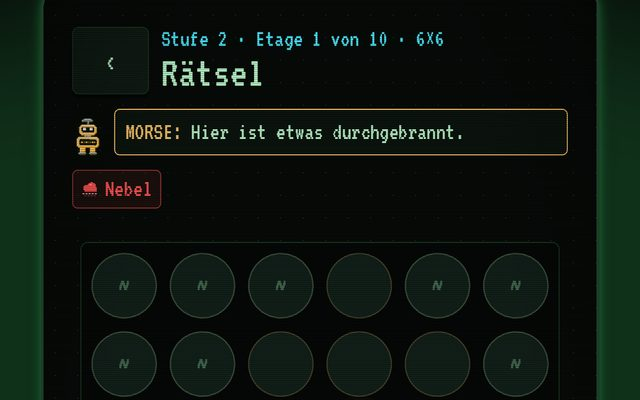
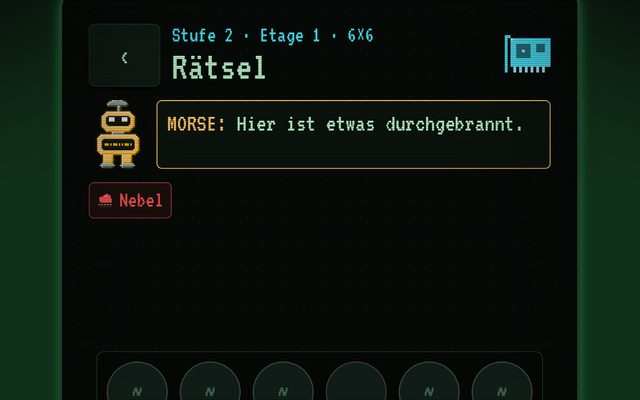
Archiv: neue Freischaltung der Roboter in Bits & Bolts
Die ersten sechs Roboter kommen weiter mit Siegen, alle anderen mit
dem, was man gespielt hat: Rätsel mit bestimmten Regeln oder
Ereignissen, 8×8, Kurzschlüsse oder Siege mit verschiedenen Robotern.
Dazu neue Bilder aus den Store-Screenshots mit den Icons der Gegenden.

diff --git a/archiv/roboter/index.html b/archiv/roboter/index.html
@@ -35,7 +35,7 @@
     <article class="wiki-page">
       <p class="eyebrow">Archiv · Roboter-Register</p>
       <h1 class="page-title">Roboter-Register</h1>
-      <p class="wiki-lead">Alle 22 Roboter in der Reihenfolge, in der man sie in Bits &amp; Bolts freischaltet. Jeder bringt ins Rätsel eine eigene Fähigkeit mit und hat in Bolt Buddies eigene Kampfwerte.</p>
+      <p class="wiki-lead">Alle 22 Roboter. Die ersten sechs schaltet man in Bits &amp; Bolts mit Siegen frei, alle anderen mit dem, was man gespielt hat: Regeln, Ereignisse, 8×8. Jeder bringt ins Rätsel eine eigene Fähigkeit mit und hat in Bolt Buddies eigene Kampfwerte.</p>
       <fieldset class="flt"><legend>Nach Spiel filtern</legend><input type="radio" name="flt" id="flt-all" checked><label for="flt-all">Alle</label><input type="radio" name="flt" id="flt-bnb"><label for="flt-bnb">Bits &amp; Bolts</label><input type="radio" name="flt" id="flt-bb"><label for="flt-bb">Bolt Buddies</label><input type="radio" name="flt" id="flt-plan"><label for="flt-plan">Geplante Spiele</label></fieldset>
 
       <nav class="bot-index" aria-label="Roboter"><a href="#byte" style="--bot:#3DFF7A"><img src="bots/byte.png" width="40" height="48" alt="" loading="lazy"><span>BYTE</span></a><a href="#okta" style="--bot:#FF9E2C"><img src="bots/okta.png" width="40" height="48" alt="" loading="lazy"><span>OKTA</span></a><a href="#gate" style="--bot:#FFD34D"><img src="bots/gate.png" width="40" height="48" alt="" loading="lazy"><span>GATE</span></a><a href="#null" style="--bot:#B4BECC"><img src="bots/null.png" width="40" height="48" alt="" loading="lazy"><span>NULL</span></a><a href="#hexa" style="--bot:#4DE8FF"><img src="bots/hexa.png" width="40" height="48" alt="" loading="lazy"><span>HEXA</span></a><a href="#pari" style="--bot:#2CE6B0"><img src="bots/pari.png" width="40" height="48" alt="" loading="lazy"><span>PARI</span></a><a href="#aski" style="--bot:#E8F0FF"><img src="bots/aski.png" width="40" height="48" alt="" loading="lazy"><span>ASKI</span></a><a href="#qubit" style="--bot:#7DF9FF"><img src="bots/qubit.png" width="40" height="48" alt="" loading="lazy"><span>QUBIT</span></a><a href="#chroma" style="--bot:#7FB2FF"><img src="bots/chroma.png" width="40" height="48" alt="" loading="lazy"><span>CHROMA</span></a><a href="#nibble" style="--bot:#C6FF3D"><img src="bots/nibble.png" width="40" height="48" alt="" loading="lazy"><span>NIBBLE</span></a><a href="#glitch" style="--bot:#B07CFF"><img src="bots/glitch.png" width="40" height="48" alt="" loading="lazy"><span>GLITCH</span></a><a href="#patch" style="--bot:#5C8DFF"><img src="bots/patch.png" width="40" height="48" alt="" loading="lazy"><span>PATCH</span></a><a href="#loop" style="--bot:#7CFFB0"><img src="bots/loop.png" width="40" height="48" alt="" loading="lazy"><span>LOOP</span></a><a href="#xor" style="--bot:#FF7A45"><img src="bots/xor.png" width="40" height="48" alt="" loading="lazy"><span>XOR</span></a><a href="#mira" style="--bot:#C9A8FF"><img src="bots/mira.png" width="40" height="48" alt="" loading="lazy"><span>MIRA</span></a><a href="#pixa" style="--bot:#FF5CF0"><img src="bots/pixa.png" width="40" height="48" alt="" loading="lazy"><span>PIXA</span></a><a href="#shift" style="--bot:#6FC3FF"><img src="bots/shift.png" width="40" height="48" alt="" loading="lazy"><span>SHIFT</span></a><a href="#root" style="--bot:#4CC26A"><img src="bots/root.png" width="40" height="48" alt="" loading="lazy"><span>ROOT</span></a><a href="#virus" style="--bot:#8CFF4D"><img src="bots/virus.png" width="40" height="48" alt="" loading="lazy"><span>VIRUS</span></a><a href="#error" style="--bot:#FF4D4D"><img src="bots/error.png" width="40" height="48" alt="" loading="lazy"><span>ERROR</span></a><a href="#daemon" style="--bot:#C04DFF"><img src="bots/daemon.png" width="40" height="48" alt="" loading="lazy"><span>DAEMON</span></a><a href="#morse" style="--bot:#FFC66B"><img src="bots/morse.png" width="40" height="48" alt="" loading="lazy"><span>MORSE</span></a></nav>
@@ -71,7 +71,7 @@
   <section class="bot-game bot-game-puzzle" data-game="bnb">
     <h4><img src="../../icons/bits-and-bolts.png" alt="" width="20" height="20">Bits &amp; Bolts<span class="bot-role">Rätselhinweis</span></h4>
     <p>Liest Oktalzahlen an den Zeilen, startet aber mit 1 Ladung weniger.</p>
-    <p class="bot-unlock">Freigeschaltet nach 1 Sieg, Stufe 0 geschafft</p>
+    <p class="bot-unlock">Freigeschaltet nach 1 Sieg</p>
   </section>
   <section class="bot-game bot-game-fight" data-game="bb">
     <h4><img src="../../icons/bolt-buddies.png" alt="" width="20" height="20">Bolt Buddies<span class="bot-role">Kampf</span></h4>
@@ -89,7 +89,7 @@
   <section class="bot-game bot-game-puzzle" data-game="bnb">
     <h4><img src="../../icons/bits-and-bolts.png" alt="" width="20" height="20">Bits &amp; Bolts<span class="bot-role">Zusatzregel</span></h4>
     <p>Bringt in jedes Rätsel Zeichen zwischen Zellen: = heißt gleich, × heißt verschieden.</p>
-    <p class="bot-unlock">Freigeschaltet nach 2 Siegen, Stufe 0 geschafft</p>
+    <p class="bot-unlock">Freigeschaltet nach 2 Siegen</p>
   </section>
   <section class="bot-game bot-game-fight" data-game="bb">
     <h4><img src="../../icons/bolt-buddies.png" alt="" width="20" height="20">Bolt Buddies<span class="bot-role">Kampf</span></h4>
@@ -107,7 +107,7 @@
   <section class="bot-game bot-game-puzzle" data-game="bnb">
     <h4><img src="../../icons/bits-and-bolts.png" alt="" width="20" height="20">Bits &amp; Bolts<span class="bot-role">Rätselhinweis</span></h4>
     <p>Zeigt, wo in einer Linie die erste 0 steht, hat aber nur 2 Tipps.</p>
-    <p class="bot-unlock">Freigeschaltet nach 3 Siegen, Stufe 1 geschafft</p>
+    <p class="bot-unlock">Freigeschaltet nach 3 Siegen</p>
   </section>
   <section class="bot-game bot-game-fight" data-game="bb">
     <h4><img src="../../icons/bolt-buddies.png" alt="" width="20" height="20">Bolt Buddies<span class="bot-role">Kampf</span></h4>
@@ -125,7 +125,7 @@
   <section class="bot-game bot-game-puzzle" data-game="bnb">
     <h4><img src="../../icons/bits-and-bolts.png" alt="" width="20" height="20">Bits &amp; Bolts<span class="bot-role">Rätselhinweis</span></h4>
     <p>Liest Hexzahlen an den Zeilen. 4 Tipps, aber 1 Ladung weniger.</p>
-    <p class="bot-unlock">Freigeschaltet nach 4 Siegen, Stufe 1 geschafft</p>
+    <p class="bot-unlock">Freigeschaltet nach 4 Siegen</p>
   </section>
   <section class="bot-game bot-game-fight" data-game="bb">
     <h4><img src="../../icons/bolt-buddies.png" alt="" width="20" height="20">Bolt Buddies<span class="bot-role">Kampf</span></h4>
@@ -143,7 +143,7 @@
   <section class="bot-game bot-game-puzzle" data-game="bnb">
     <h4><img src="../../icons/bits-and-bolts.png" alt="" width="20" height="20">Bits &amp; Bolts<span class="bot-role">Zusatzregel</span></h4>
     <p>Bringt in jedes Rätsel Blöcke mit gleich vielen Nullen und Einsen.</p>
-    <p class="bot-unlock">Freigeschaltet nach 5 Siegen, Stufe 2 geschafft</p>
+    <p class="bot-unlock">Freigeschaltet nach 5 Siegen</p>
   </section>
   <section class="bot-game bot-game-fight" data-game="bb">
     <h4><img src="../../icons/bolt-buddies.png" alt="" width="20" height="20">Bolt Buddies<span class="bot-role">Kampf</span></h4>
@@ -161,7 +161,7 @@
   <section class="bot-game bot-game-puzzle" data-game="bnb">
     <h4><img src="../../icons/bits-and-bolts.png" alt="" width="20" height="20">Bits &amp; Bolts<span class="bot-role">Rätselhinweis</span></h4>
     <p>Liest ASCII-Zeichen an den Zeilen. 5 Ladungen, aber nur 2 Tipps.</p>
-    <p class="bot-unlock">Freigeschaltet nach 6 Siegen, Stufe 2 geschafft</p>
+    <p class="bot-unlock">Freigeschaltet nach 6 Siegen</p>
   </section>
   <section class="bot-game bot-game-fight" data-game="bb">
     <h4><img src="../../icons/bolt-buddies.png" alt="" width="20" height="20">Bolt Buddies<span class="bot-role">Kampf</span></h4>
@@ -179,7 +179,7 @@
   <section class="bot-game bot-game-puzzle" data-game="bnb">
     <h4><img src="../../icons/bits-and-bolts.png" alt="" width="20" height="20">Bits &amp; Bolts<span class="bot-role">Zusatzregel</span></h4>
     <p>Verschränkt Zellen: Von zwei Zellen mit gleichem Buchstaben ist genau eine 1.</p>
-    <p class="bot-unlock">Freigeschaltet nach 8 Siegen, Stufe 3 geschafft</p>
+    <p class="bot-unlock">Freigeschaltet nach 15 Rätseln mit Sensoren</p>
   </section>
   <section class="bot-game bot-game-fight" data-game="bb">
     <h4><img src="../../icons/bolt-buddies.png" alt="" width="20" height="20">Bolt Buddies<span class="bot-role">Kampf</span></h4>
@@ -197,7 +197,7 @@
   <section class="bot-game bot-game-puzzle" data-game="bnb">
     <h4><img src="../../icons/bits-and-bolts.png" alt="" width="20" height="20">Bits &amp; Bolts<span class="bot-role">Rätselhinweis</span></h4>
     <p>Liest Farbbalken an den Zeilen, hat aber nur 2 Tipps.</p>
-    <p class="bot-unlock">Freigeschaltet nach 10 Siegen, Stufe 3 geschafft</p>
+    <p class="bot-unlock">Freigeschaltet nach 15 Rätseln mit Hex</p>
   </section>
   <section class="bot-game bot-game-fight" data-game="bb">
     <h4><img src="../../icons/bolt-buddies.png" alt="" width="20" height="20">Bolt Buddies<span class="bot-role">Kampf</span></h4>
@@ -215,7 +215,7 @@
   <section class="bot-game bot-game-puzzle" data-game="bnb">
     <h4><img src="../../icons/bits-and-bolts.png" alt="" width="20" height="20">Bits &amp; Bolts<span class="bot-role">Zusatzregel</span></h4>
     <p>Zählt in Häppchen: Rahmen um vier Zellen sagen, wie viele Einsen darin stehen.</p>
-    <p class="bot-unlock">Freigeschaltet nach 12 Siegen, Stufe 4 geschafft</p>
+    <p class="bot-unlock">Freigeschaltet nach 15 Rätseln mit Blöcken</p>
   </section>
   <section class="bot-game bot-game-fight" data-game="bb">
     <h4><img src="../../icons/bolt-buddies.png" alt="" width="20" height="20">Bolt Buddies<span class="bot-role">Kampf</span></h4>
@@ -233,7 +233,7 @@
   <section class="bot-game bot-game-puzzle" data-game="bnb">
     <h4><img src="../../icons/bits-and-bolts.png" alt="" width="20" height="20">Bits &amp; Bolts<span class="bot-role">Rätselhinweis</span></h4>
     <p>Zeigt zwei Zahlen an einer Linie, nur eine stimmt. 4 Tipps, aber 1 Ladung weniger.</p>
-    <p class="bot-unlock">Freigeschaltet nach 14 Siegen, Stufe 4 geschafft</p>
+    <p class="bot-unlock">Freigeschaltet nach 10 Rätseln mit Wackelkontakt oder Störsignal</p>
   </section>
   <section class="bot-game bot-game-fight" data-game="bb">
     <h4><img src="../../icons/bolt-buddies.png" alt="" width="20" height="20">Bolt Buddies<span class="bot-role">Kampf</span></h4>
@@ -251,7 +251,7 @@
   <section class="bot-game bot-game-puzzle" data-game="bnb">
     <h4><img src="../../icons/bits-and-bolts.png" alt="" width="20" height="20">Bits &amp; Bolts<span class="bot-role">Fähigkeit</span></h4>
     <p>Flickt sich selbst: Der erste Kurzschluss in jedem Rätsel kostet nichts. Dafür 2 Ladungen weniger.</p>
-    <p class="bot-unlock">Freigeschaltet nach 16 Siegen, Stufe 4 geschafft</p>
+    <p class="bot-unlock">Freigeschaltet nach 50 überstandenen Kurzschlüssen</p>
   </section>
   <section class="bot-game bot-game-fight" data-game="bb">
     <h4><img src="../../icons/bolt-buddies.png" alt="" width="20" height="20">Bolt Buddies<span class="bot-role">Kampf</span></h4>
@@ -269,7 +269,7 @@
   <section class="bot-game bot-game-puzzle" data-game="bnb">
     <h4><img src="../../icons/bits-and-bolts.png" alt="" width="20" height="20">Bits &amp; Bolts<span class="bot-role">Zusatzregel</span></h4>
     <p>Seine Raster haben keinen Rand: Nie drei gleiche gilt auch über den Rand hinweg.</p>
-    <p class="bot-unlock">Freigeschaltet nach 18 Siegen, Stufe 5 geschafft</p>
+    <p class="bot-unlock">Freigeschaltet nach Siegen mit 6 verschiedenen Robotern</p>
   </section>
   <section class="bot-game bot-game-fight" data-game="bb">
     <h4><img src="../../icons/bolt-buddies.png" alt="" width="20" height="20">Bolt Buddies<span class="bot-role">Kampf</span></h4>
@@ -287,7 +287,7 @@
   <section class="bot-game bot-game-puzzle" data-game="bnb">
     <h4><img src="../../icons/bits-and-bolts.png" alt="" width="20" height="20">Bits &amp; Bolts<span class="bot-role">Rätselhinweis</span></h4>
     <p>Zählt, an wie vielen Stellen sich zwei Nachbarlinien unterscheiden. Dafür 4 Tipps.</p>
-    <p class="bot-unlock">Freigeschaltet nach 20 Siegen, Stufe 5 geschafft</p>
+    <p class="bot-unlock">Freigeschaltet nach 15 Rätseln mit Zeichen</p>
   </section>
   <section class="bot-game bot-game-fight" data-game="bb">
     <h4><img src="../../icons/bolt-buddies.png" alt="" width="20" height="20">Bolt Buddies<span class="bot-role">Kampf</span></h4>
@@ -305,7 +305,7 @@
   <section class="bot-game bot-game-puzzle" data-game="bnb">
     <h4><img src="../../icons/bits-and-bolts.png" alt="" width="20" height="20">Bits &amp; Bolts<span class="bot-role">Rätselhinweis</span></h4>
     <p>Verbindet Linien, die Spiegelbilder sind. 5 Ladungen, 3 Tipps.</p>
-    <p class="bot-unlock">Freigeschaltet nach 22 Siegen, Stufe 5 geschafft</p>
+    <p class="bot-unlock">Freigeschaltet nach 10 Rätseln mit Einzigartig</p>
   </section>
   <section class="bot-game bot-game-fight" data-game="bb">
     <h4><img src="../../icons/bolt-buddies.png" alt="" width="20" height="20">Bolt Buddies<span class="bot-role">Kampf</span></h4>
@@ -323,7 +323,7 @@
   <section class="bot-game bot-game-puzzle" data-game="bnb">
     <h4><img src="../../icons/bits-and-bolts.png" alt="" width="20" height="20">Bits &amp; Bolts<span class="bot-role">Rätselhinweis</span></h4>
     <p>Zeigt Pixelblöcke an Zeilen und Spalten. 5 Ladungen, 3 Tipps.</p>
-    <p class="bot-unlock">Freigeschaltet nach 24 Siegen, Stufe 5 geschafft</p>
+    <p class="bot-unlock">Freigeschaltet nach 10 Rätseln mit Farbe</p>
   </section>
   <section class="bot-game bot-game-fight" data-game="bb">
     <h4><img src="../../icons/bolt-buddies.png" alt="" width="20" height="20">Bolt Buddies<span class="bot-role">Kampf</span></h4>
@@ -341,7 +341,7 @@
   <section class="bot-game bot-game-puzzle" data-game="bnb">
     <h4><img src="../../icons/bits-and-bolts.png" alt="" width="20" height="20">Bits &amp; Bolts<span class="bot-role">Rätselhinweis</span></h4>
     <p>Verbindet Nachbarlinien, die um eine Stelle verschoben sind. 5 Ladungen, 3 Tipps.</p>
-    <p class="bot-unlock">Freigeschaltet nach 26 Siegen, Stufe 5 geschafft</p>
+    <p class="bot-unlock">Freigeschaltet nach 10 Rätseln mit Spiegeln</p>
   </section>
   <section class="bot-game bot-game-fight" data-game="bb">
     <h4><img src="../../icons/bolt-buddies.png" alt="" width="20" height="20">Bolt Buddies<span class="bot-role">Kampf</span></h4>
@@ -359,7 +359,7 @@
   <section class="bot-game bot-game-puzzle" data-game="bnb">
     <h4><img src="../../icons/bits-and-bolts.png" alt="" width="20" height="20">Bits &amp; Bolts<span class="bot-role">Zusatzregel</span></h4>
     <p>Sieht auch schräg: Nie drei gleiche gilt bei ihm auch diagonal. Dafür 1 Tipp mehr.</p>
-    <p class="bot-unlock">Freigeschaltet nach 28 Siegen, Stufe 5 geschafft</p>
+    <p class="bot-unlock">Freigeschaltet nach 10 Rätseln in 8×8</p>
   </section>
   <section class="bot-game bot-game-fight" data-game="bb">
     <h4><img src="../../icons/bolt-buddies.png" alt="" width="20" height="20">Bolt Buddies<span class="bot-role">Kampf</span></h4>
@@ -377,7 +377,7 @@
   <section class="bot-game bot-game-puzzle" data-game="bnb">
     <h4><img src="../../icons/bits-and-bolts.png" alt="" width="20" height="20">Bits &amp; Bolts<span class="bot-role">Ereignis</span></h4>
     <p>Steckt an: Bei einem Kurzschluss erlischt auch eine Ziffer daneben. Dafür 1 Ladung mehr.</p>
-    <p class="bot-unlock">Freigeschaltet nach 30 Siegen, Stufe 5 geschafft</p>
+    <p class="bot-unlock">Freigeschaltet nach 5 Rätseln mit Ansteckung</p>
   </section>
   <section class="bot-game bot-game-fight" data-game="bb">
     <h4><img src="../../icons/bolt-buddies.png" alt="" width="20" height="20">Bolt Buddies<span class="bot-role">Kampf</span></h4>
@@ -395,7 +395,7 @@
   <section class="bot-game bot-game-puzzle" data-game="bnb">
     <h4><img src="../../icons/bits-and-bolts.png" alt="" width="20" height="20">Bits &amp; Bolts<span class="bot-role">Ereignis</span></h4>
     <p>Baut Fehler ein: Eine Vorgabe ist falsch. Dafür 1 Tipp mehr.</p>
-    <p class="bot-unlock">Freigeschaltet nach 32 Siegen, Stufe 5 geschafft</p>
+    <p class="bot-unlock">Freigeschaltet nach 5 Rätseln mit falscher Vorgabe</p>
   </section>
   <section class="bot-game bot-game-fight" data-game="bb">
     <h4><img src="../../icons/bolt-buddies.png" alt="" width="20" height="20">Bolt Buddies<span class="bot-role">Kampf</span></h4>
@@ -413,7 +413,7 @@
   <section class="bot-game bot-game-puzzle" data-game="bnb">
     <h4><img src="../../icons/bits-and-bolts.png" alt="" width="20" height="20">Bits &amp; Bolts<span class="bot-role">Ereignis</span></h4>
     <p>Läuft im Hintergrund: Wer zu lange nichts Richtiges einträgt, verliert Ladung. Dafür 1 Ladung mehr.</p>
-    <p class="bot-unlock">Freigeschaltet nach 34 Siegen, Stufe 5 geschafft</p>
+    <p class="bot-unlock">Freigeschaltet nach 5 Rätseln mit Zeitdruck</p>
   </section>
   <section class="bot-game bot-game-fight" data-game="bb">
     <h4><img src="../../icons/bolt-buddies.png" alt="" width="20" height="20">Bolt Buddies<span class="bot-role">Kampf</span></h4>
@@ -431,7 +431,7 @@
   <section class="bot-game bot-game-puzzle" data-game="bnb">
     <h4><img src="../../icons/bits-and-bolts.png" alt="" width="20" height="20">Bits &amp; Bolts<span class="bot-role">Ereignis</span></h4>
     <p>Funkt im Nebel: Klar zu sehen ist nur die Umgebung der letzten Zelle. Dafür 1 Tipp mehr.</p>
-    <p class="bot-unlock">Freigeschaltet nach 36 Siegen, Stufe 5 geschafft</p>
+    <p class="bot-unlock">Freigeschaltet nach 5 Rätseln im Nebel</p>
   </section>
   <section class="bot-game bot-game-fight" data-game="bb">
     <h4><img src="../../icons/bolt-buddies.png" alt="" width="20" height="20">Bolt Buddies<span class="bot-role">Kampf</span></h4>

diff --git a/tools/archiv_data.py b/tools/archiv_data.py
@@ -44,10 +44,17 @@ PUZZLE = {
     "DAEMON": "Läuft im Hintergrund: Wer zu lange nichts Richtiges einträgt, verliert Ladung. Dafür 1 Ladung mehr.",
     "MORSE": "Funkt im Nebel: Klar zu sehen ist nur die Umgebung der letzten Zelle. Dafür 1 Tipp mehr.",
 }
-UNLOCK = {"OKTA": (1, 0), "GATE": (2, 0), "NULL": (3, 1), "HEXA": (4, 1), "PARI": (5, 2), "ASKI": (6, 2),
-          "QUBIT": (8, 3), "CHROMA": (10, 3), "NIBBLE": (12, 4), "GLITCH": (14, 4), "PATCH": (16, 4),
-          "LOOP": (18, 5), "XOR": (20, 5), "MIRA": (22, 5), "PIXA": (24, 5), "SHIFT": (26, 5), "ROOT": (28, 5),
-          "VIRUS": (30, 5), "ERROR": (32, 5), "DAEMON": (34, 5), "MORSE": (36, 5)}
+## Freischaltung in Bits & Bolts (core/run_logic.gd UNLOCKS): die ersten sechs mit Siegen, alle anderen mit dem, was man gespielt hat
+UNLOCK = {
+    "OKTA": "nach 1 Sieg", "GATE": "nach 2 Siegen", "NULL": "nach 3 Siegen", "HEXA": "nach 4 Siegen",
+    "PARI": "nach 5 Siegen", "ASKI": "nach 6 Siegen",
+    "XOR": "nach 15 Rätseln mit Zeichen", "NIBBLE": "nach 15 Rätseln mit Blöcken", "QUBIT": "nach 15 Rätseln mit Sensoren",
+    "CHROMA": "nach 15 Rätseln mit Hex", "GLITCH": "nach 10 Rätseln mit Wackelkontakt oder Störsignal",
+    "MIRA": "nach 10 Rätseln mit Einzigartig", "PIXA": "nach 10 Rätseln mit Farbe", "SHIFT": "nach 10 Rätseln mit Spiegeln",
+    "PATCH": "nach 50 überstandenen Kurzschlüssen", "LOOP": "nach Siegen mit 6 verschiedenen Robotern",
+    "ROOT": "nach 10 Rätseln in 8×8", "ERROR": "nach 5 Rätseln mit falscher Vorgabe", "VIRUS": "nach 5 Rätseln mit Ansteckung",
+    "DAEMON": "nach 5 Rätseln mit Zeitdruck", "MORSE": "nach 5 Rätseln im Nebel",
+}
 SAYS = {"GATE": "Zutritt!", "LOOP": "Und nochmal!", "NULL": "...", "PARI": "Halbe-halbe!", "MIRA": "!ollaH",
         "SHIFT": "Rutsch rüber!", "XOR": "Anders!", "GLITCH": "H#ll§!", "BYTE": "Hallo!", "OKTA": "Blubb!",
         "HEXA": "0xF00D!", "ASKI": "Hi :)", "CHROMA": "Ooh, bunt!", "PIXA": "Piep!", "PATCH": "Hält schon!",

diff --git a/tools/make_archiv.py b/tools/make_archiv.py
@@ -138,8 +138,7 @@ def bar(v):
         f'<i class="{"on" if i < v else ""}"></i>' for i in range(6)) + "</span>"
 
 def bot_card(b):
-    u = UNLOCK.get(b)
-    unlock = "von Anfang an" if not u else f"nach {u[0]} {'Sieg' if u[0] == 1 else 'Siegen'}, Stufe {u[1]} geschafft"
+    unlock = UNLOCK.get(b, "von Anfang an")
     stats = "".join(f"<div><dt>{a}</dt><dd>{bar(v)}<span class=\"num\">{v}</span></dd></div>"
                     for a, v in zip(ATTR, BASE[b]))
     hero = f'<p class="bot-hero"{g("plan")}>Held in {html.escape(HERO[b])}</p>' if b in HERO and "geplant" in HERO[b] else ""
@@ -212,7 +211,7 @@ assert sorted(FAMILY) == sorted(ORDER), "jeder Roboter braucht genau eine Famili
 assert sorted(HOME) == sorted(ORDER) and sorted(KEEPSAKE) == sorted(ORDER), "jeder Roboter braucht Fundort und Teil"
 copy_sprites()
 write("roboter", head("Archiv · Roboter-Register", "Roboter-Register",
-    "Alle 22 Roboter in der Reihenfolge, in der man sie in Bits &amp; Bolts freischaltet. Jeder bringt ins Rätsel eine eigene Fähigkeit mit und hat in Bolt Buddies eigene Kampfwerte.") + f"""
+    "Alle 22 Roboter. Die ersten sechs schaltet man in Bits &amp; Bolts mit Siegen frei, alle anderen mit dem, was man gespielt hat: Regeln, Ereignisse, 8×8. Jeder bringt ins Rätsel eine eigene Fähigkeit mit und hat in Bolt Buddies eigene Kampfwerte.") + f"""
       <nav class="bot-index" aria-label="Roboter">{index}</nav>
       <div class="callout wiki-note">
         <b>So liest du die Karten:</b> Jede Karte zeigt, was der Roboter in beiden Spielen kann: oben in Bits &amp; Bolts, unten in Bolt Buddies. Die Punkte sind die Grundwerte auf Stufe 1, zusammen immer 12. Je Stufe wächst jedes Attribut um 12 % seines Grundwerts, höchstens bis Stufe 20.
